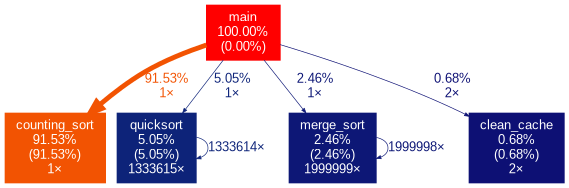
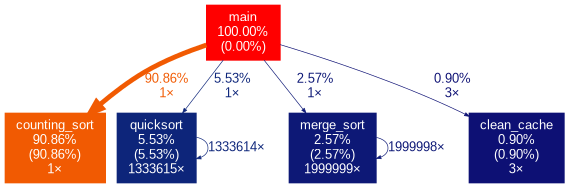
analises finais

diff --git a/Atividade2/create_graphs/graph_creator.c b/Atividade2/create_graphs/graph_creator.c
@@ -23,41 +23,35 @@ void bubble_sort(int* vet,int n){
     }
 }
 
-void merge_sort(int* vet,int ini,int fim){
+void merge_sort(int* vet,int ini,int fim,int* aux){
     if(ini >= fim) return;
 
     //printf("%d %d\n", ini,fim);
 
     int meio = (ini+fim)/2.0;
 
-    merge_sort(vet,ini,meio);
-    merge_sort(vet,meio+1,fim);
+    merge_sort(vet,ini,meio,aux);
+    merge_sort(vet,meio+1,fim,aux);
 
-    int* tmp = (int*)malloc((fim-ini+1)*sizeof(int));
     int i=ini;
     int j = meio+1;
     int indTmp = 0;
     while(i <= meio && j <= fim){
-        if(vet[i] <= vet[j]) tmp[indTmp++] = vet[i++];
-        else tmp[indTmp++] = vet[j++];
+        if(vet[i] <= vet[j]) aux[ini+indTmp++] = vet[i++];
+        else aux[ini+indTmp++] = vet[j++];
     }
 
     while(i <= meio){
-        tmp[indTmp++] = vet[i++];
+        aux[ini+indTmp++] = vet[i++];
     }
 
     while(j <= fim){
-        tmp[indTmp++] = vet[j++];
+        aux[ini+indTmp++] = vet[j++];
     }
 
-    for(int k=0;k<(fim-ini+1);k++){
-        vet[ini+k] = tmp[k];
-        //spend_time(time);
+    for(int k=ini;k<=fim;k++){
+        vet[k] = aux[k];
     }
-    free(tmp);
-
-    
-    
 }
 
 void counting_sort(int* vet,int n){
@@ -148,7 +142,7 @@ int next(int n){
 
 int main(){
     srand(42);
-    const int maxN = 2000000;
+    const int maxN = 200000;
     const int maxK = 1e9;
 
     int* vet = (int*)malloc(sizeof(int)*maxN);
@@ -160,19 +154,20 @@ int main(){
 
     for(int n=10;n<=maxN;n=next(n)){
         int* unord = (int*)malloc(sizeof(int)*n);
+        int* aux = (int*)malloc(sizeof(int)*n);
 
         cpy_vet(unord,vet,n);
         
 
         clock_t begin = clock();
-        //bubble_sort(vet,n);
-        //merge_sort(vet,0,n-1);
-        //quicksort(vet,0,n-1);
-        counting_sort(unord,n);
+        merge_sort(unord,0,n-1,aux);
+        //counting_sort(unord,n);
+        //quicksort(unord,0,n-1);
         clock_t end = clock();
         double time_spent = (double)(end - begin) / CLOCKS_PER_SEC;
         printf("%d %lf\n", n,time_spent);
         free(unord);
+        free(aux);
     }
 
     free(vet);

diff --git a/Atividade2/analysis.c b/Atividade2/analysis.c
@@ -145,7 +145,7 @@ void cpy_vet(int* vet1,int* vet2,int n){
 int main(){
     srand(42);
 
-    const int n = 1000000;
+    const int n = 1e6;
     int* vet = (int*)malloc(sizeof(int)*n);
 
     for(int i=0;i<n;i++){
@@ -159,14 +159,17 @@ int main(){
     //clean_cache();
     
     cpy_vet(unord,vet,n);
+    clean_cache();
     merge_sort(unord,0,n-1);
-    clean_cache();
+    
 
     cpy_vet(unord,vet,n);
+    clean_cache();
     counting_sort(unord,n);
-    clean_cache();
+
 
     cpy_vet(unord,vet,n);
+    clean_cache();
     quicksort(unord,0,n-1);
 
 
